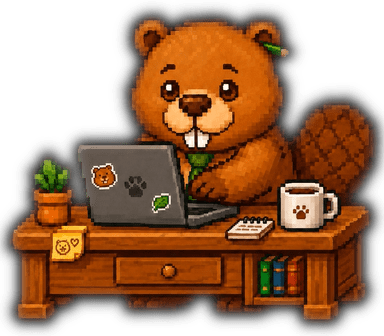
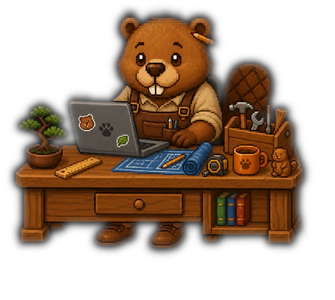
feat: refresh beaver and penguin workstation art and nudge scale

diff --git a/src/art/employeeSprites.ts b/src/art/employeeSprites.ts
@@ -58,14 +58,15 @@ export interface EmployeeSpriteConfig {
 // they read as more present at their workstations, re-checked side-by-side in
 // the office so they stay harmonious and never dominate the room.
 export const EMPLOYEE_SPRITES: Record<string, EmployeeSpriteConfig> = {
-  // Bea — Beaver, Construction. Reference desk, raised ~15% (70->80 / 101->116).
+  // Bea — Beaver, Construction. Refreshed workstation art (overalls, bonsai,
+  // toolbox). Raised ~15% over the previous rendered desk width.
   bea: {
     src: 'employees/bea.png',
     poster: 'employees/bea-poster.png',
-    frameWidth: 384,
-    frameHeight: 336,
-    officeHeight: 80,
-    cardHeight: 116,
+    frameWidth: 335,
+    frameHeight: 300,
+    officeHeight: 103,
+    cardHeight: 148,
     anchorX: 0.5,
     baseline: 0,
   },
@@ -93,15 +94,15 @@ export const EMPLOYEE_SPRITES: Record<string, EmployeeSpriteConfig> = {
     anchorX: 0.5,
     baseline: 0,
   },
-  // Pingo — Penguin, Logistics. Purple chair, scarf, "LOGISTICS / DATA / NAP".
-  // Raised ~20%, then a further ~20% (82->98 / 118->142).
+  // Pingo — Penguin, Logistics. Refreshed workstation art (cocoa, snow globe,
+  // fan). Raised ~10% over the previous rendered desk width.
   pingo: {
     src: 'employees/penguin.png',
     poster: 'employees/penguin-poster.png',
-    frameWidth: 371,
+    frameWidth: 356,
     frameHeight: 300,
-    officeHeight: 98,
-    cardHeight: 142,
+    officeHeight: 112,
+    cardHeight: 161,
     anchorX: 0.5,
     baseline: 0,
   },
